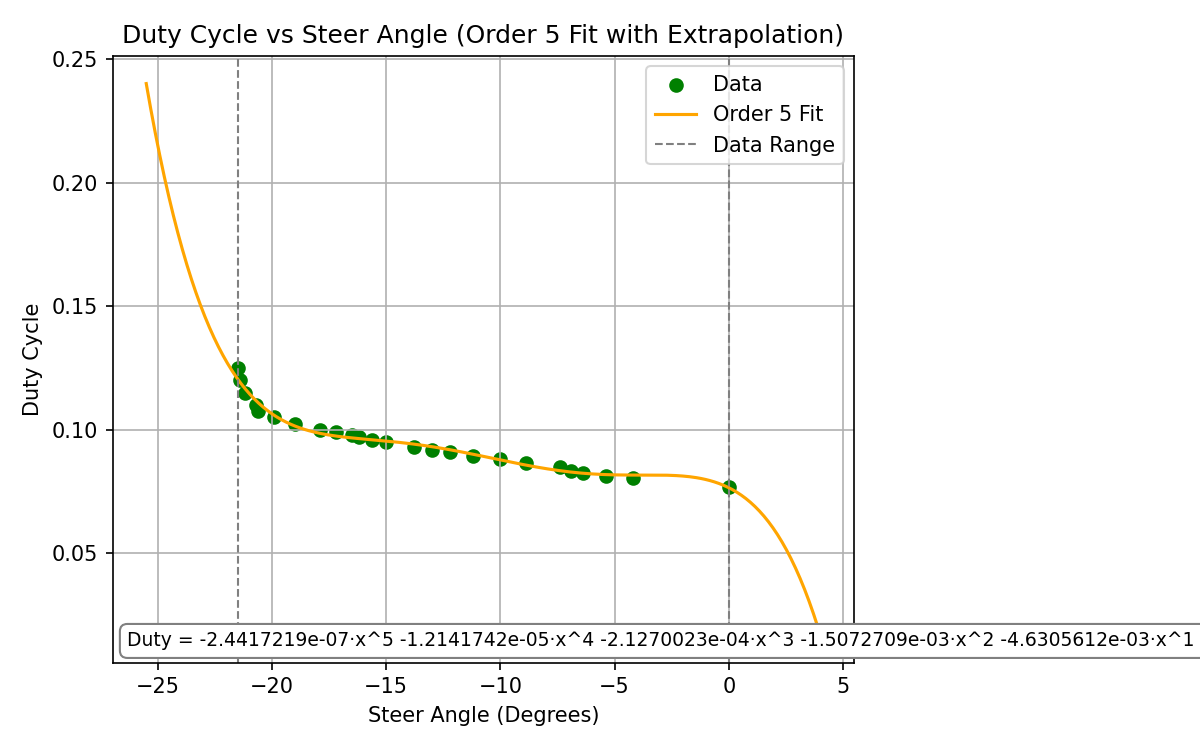
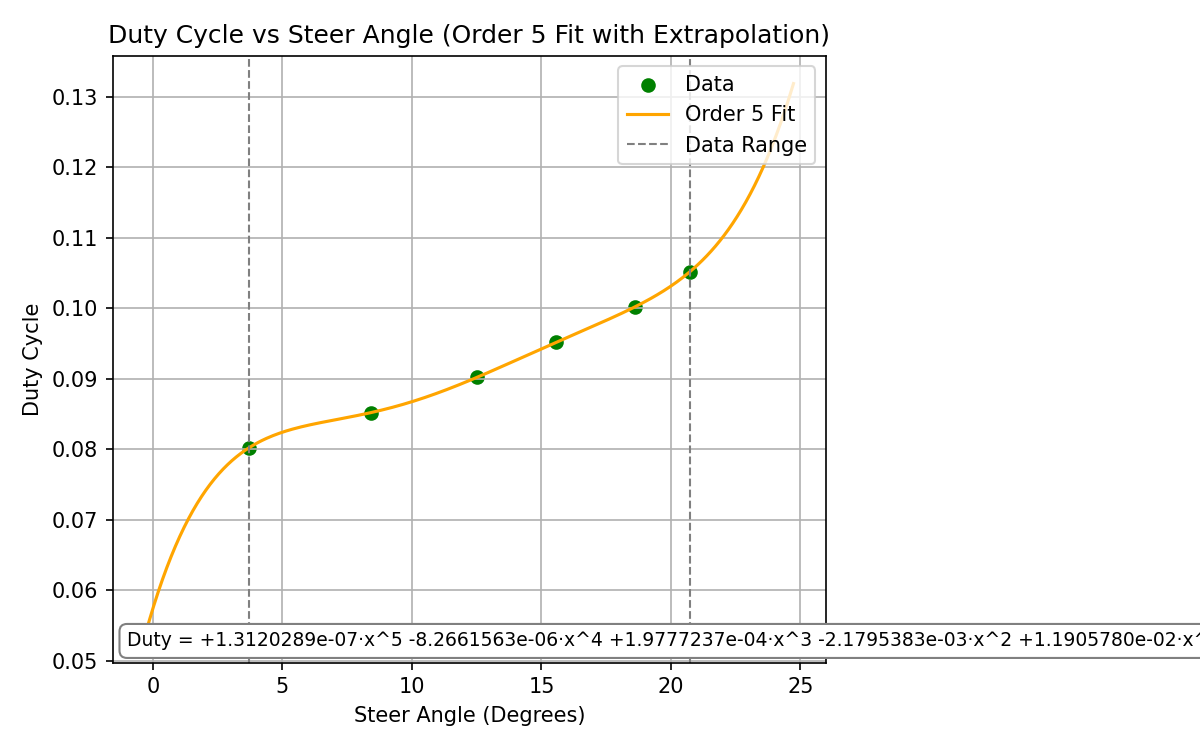
Redone calibration

diff --git a/Embedded_Platform/Embedded_2024/source/drivers/steeringmotor.cpp b/Embedded_Platform/Embedded_2024/source/drivers/steeringmotor.cpp
@@ -150,9 +150,9 @@ namespace drivers{
         // Previous input angle
         static float prev_angle = 0;
         // Zero default when returning from a left turn
-        ZD_left = 0.0772;
+        ZD_left = 0.0713;
         // Zero default when returning from a right turn
-        ZD_right = 0.0755;
+        ZD_right = 0.0713;
 
         // if(f_angle > 20.8) f_angle = 20.8; 
         // if(f_angle < -21.8) f_angle = -21.8;
@@ -160,26 +160,26 @@ namespace drivers{
         // Function to calculate the positive angle (LEFT TURN)
         if(f_angle > 0)
         {
-            // Polynomial Coefficients (Order 5):
-            // a5 = -0.0000000541430850
-            // a4 = 0.0000030924866654
-            // a3 = -0.0000624797374340
-            // a2 = 0.0005081835695535
-            // a1 = -0.0022800535753529
-            // c     = 0.0769733903210084
-            dutyCycle = -0.0000000541430850 * std::pow(f_angle, 5) + 0.0000030924866654 * std::pow(f_angle, 4) - 0.0000624797374340 * std::pow(f_angle, 3) + 0.0005081835695535 * std::pow(f_angle, 2) - 0.0022800535753529 * f_angle + 0.0769733903210084;
+            // a5 = -0.0000000732134966
+            // a4 = 0.0000046319276716
+            // a3 = -0.0001123448281922
+            // a2 = 0.0012860426402345
+            // a1 = -0.0077280546106053
+            // c     = 0.0895876959763474
+            
+            dutyCycle = -0.0000000732134966 * std::pow(f_angle, 5) + 0.0000046319276716 * std::pow(f_angle, 4) - 0.0001123448281922 * std::pow(f_angle, 3) + 0.0012860426402345 * std::pow(f_angle, 2) - 0.0077280546106053 * f_angle + 0.0895876959763474;
         }
         // Function to calculate the negative angles (RIGHT TURN)
         else if(f_angle < 0)
         {
             // Polynomial Coefficients (Order 5):
-            // a5 = -0.0000002441721872
-            // a4 = -0.0000121417422652
-            // a3 = -0.0002127002299692
-            // a2 = -0.0015072709396399
-            // a1 = -0.0046305612134746
-            // c     = 0.0765299449449109
-            dutyCycle = -0.0000002441721872 * std::pow(f_angle, 5) - 0.0000121417422652 * std::pow(f_angle, 4) - 0.0002127002299692 * std::pow(f_angle, 3) - 0.0015072709396399 * std::pow(f_angle, 2) - 0.0046305612134746 * f_angle + 0.0765299449449109;
+            // a5 = 0.0000012802151048
+            // a4 = -0.0000803755005760
+            // a3 = 0.0019179807196111
+            // a2 = -0.0210917411595012
+            // a1 = 0.1153818116831525
+            // c     = 0.5288576668971681
+            dutyCycle = 0.0000001312028949 * std::pow(f_angle, 5) - 0.0000082661562630 * std::pow(f_angle, 4) + 0.0001977723692401 * std::pow(f_angle, 3) - 0.0021795382597227 * std::pow(f_angle, 2) + 0.0119057795053834 * f_angle + 0.0574269602763454;
         }
         // Special case if we want to reset to 0 and set the car to go straight
         else if(std::abs(f_angle) < 0.1)

diff --git a/Embedded_Platform/Embedded_2024/include/drivers/steeringmotor.hpp b/Embedded_Platform/Embedded_2024/include/drivers/steeringmotor.hpp
@@ -36,8 +36,8 @@ namespace drivers
             // Desired steer value
             float m_desiredSteer = 0;
             /** @brief 0 default */
-            float zero_default = 0.0713;
-            float max_pwm = 0.105;
+            float zero_default = 0.0765;
+            float max_pwm = 0.1052;
             float min_pwm = 0.042;
     };
 
